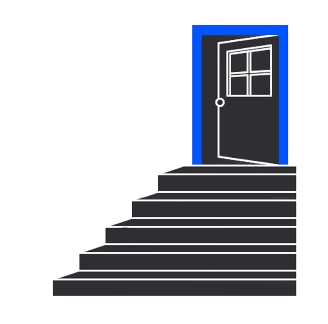
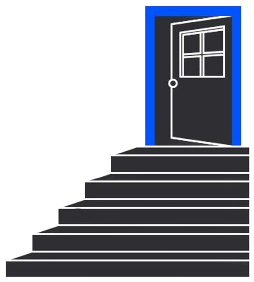
feat: restructure Header component layout and enhance Home page styling.

diff --git a/client/src/components/Header.tsx b/client/src/components/Header.tsx
@@ -9,44 +9,56 @@ export default function Header(): React.JSX.Element {
 
   return (
     <header className="sticky top-0 z-50 bg-slate-200 shadow-md">
-      <div className="flex justify-between items-center max-w-6xl mx-auto p-3">
-        <Link to="/">
-          <h1 className="font-bold text-sm sm:text-xl md:text-2xl flex flex-wrap">
-            <span className="text-blue-500">Plot</span>
-            <span className="text-slate-800">Trade</span>
-          </h1>
-        </Link>
-        <Link
-          to="/search"
-          className="bg-slate-100 hover:bg-blue-300 text-slate-600 hover:text-slate-800 p-3 rounded-full flex items-stretch gap-2 transition-colors font-medium text-sm sm:px-8 md:px-16 lg:px-32 xl:px-48"
-          title="Open properties search"
-        >
-          <FaSearch className="text-slate-500" />
-          <span className="hidden sm:inline">Search Properties</span>
-        </Link>
-        <ul className="flex gap-6 items-center">
+      {/* Replaced 'flex justify-between' with 'grid grid-cols-3' */}
+      <div className="grid grid-cols-3 items-center max-w-6xl mx-auto p-3">
+        {/* Left Column: Logo */}
+        <div className="justify-self-start">
           <Link to="/">
-            <li className="hidden sm:inline md:text-1xl text-slate-700 hover:underline">
-              Home
-            </li>
+            <h1 className="font-bold text-sm sm:text-xl md:text-2xl flex flex-wrap">
+              <span className="text-blue-500">Plot</span>
+              <span className="text-slate-800">Trade</span>
+            </h1>
           </Link>
-          <Link to="/about">
-            <li className="hidden sm:inline md:text-1xl text-slate-700 hover:underline">
-              About
-            </li>
+        </div>
+
+        {/* Center Column: Search Bar */}
+        <div className="justify-self-center w-full flex justify-center">
+          <Link
+            to="/search"
+            className="bg-slate-100 hover:bg-blue-300 text-slate-600 hover:text-slate-800 p-3 rounded-full flex items-center justify-center gap-2 transition-colors font-medium text-sm w-full max-w-md"
+            title="Open properties search"
+          >
+            <FaSearch className="text-slate-500 shrink-0" />
+            <span className="hidden sm:inline">Search Properties</span>
           </Link>
-          <Link to="/profile">
-            {currentUser ? (
-              <img
-                className="rounded-full h-9 w-9 object-cover"
-                src={currentUser.avatar}
-                alt="profile"
-              />
-            ) : (
-              <li className=" text-slate-700 hover:underline"> Sign in</li>
-            )}
-          </Link>
-        </ul>
+        </div>
+
+        {/* Right Column: Navigation */}
+        <div className="justify-self-end">
+          <ul className="flex gap-6 items-center">
+            <Link to="/">
+              <li className="hidden sm:inline md:text-1xl text-slate-700 hover:underline">
+                Home
+              </li>
+            </Link>
+            <Link to="/about">
+              <li className="hidden sm:inline md:text-1xl text-slate-700 hover:underline">
+                About
+              </li>
+            </Link>
+            <Link to="/profile">
+              {currentUser ? (
+                <img
+                  className="rounded-full h-9 w-9 object-cover"
+                  src={currentUser.avatar}
+                  alt="profile"
+                />
+              ) : (
+                <li className="text-slate-700 hover:underline">Sign in</li>
+              )}
+            </Link>
+          </ul>
+        </div>
       </div>
     </header>
   );

diff --git a/client/src/pages/Home.tsx b/client/src/pages/Home.tsx
@@ -54,11 +54,12 @@ export default function Home(): React.JSX.Element {
   return (
     <div>
       {/* top */}
-      <div className="flex flex-col lg:flex-row items-center justify-between gap-6 p-10 px-3 max-w-6xl mx-auto">
+      <div className="flex flex-col lg:flex-row items-center justify-between p-10 px-3 max-w-6xl mx-auto">
         {/* Left Side: Content */}
         <div className="flex flex-col gap-6 flex-1">
           <h1 className="text-slate-700 font-bold text-3xl lg:text-6xl">
-            Step into your future <span className="text-blue-500">Door</span>
+            Step into your future
+            <span className="text-blue-500"> Door</span>
             <br />
             effortlessly
           </h1>
@@ -79,11 +80,11 @@ export default function Home(): React.JSX.Element {
         </div>
 
         {/* Right Side: Image */}
-        <div className="flex-1 flex justify-center lg:justify-end w-full">
+        <div className="flex-1 flex justify-center items-center lg:justify-end w-full min-w-0 m-0 p-0">
           <img
             src="/hero.png"
             alt="Property graphic"
-            className="w-full max-w-lg h-auto object-contain"
+            className="w-full max-w-xs sm:max-w-md md:max-w-lg lg:max-w-xl h-auto max-h-[70vh] object-contain"
           />
         </div>
       </div>
